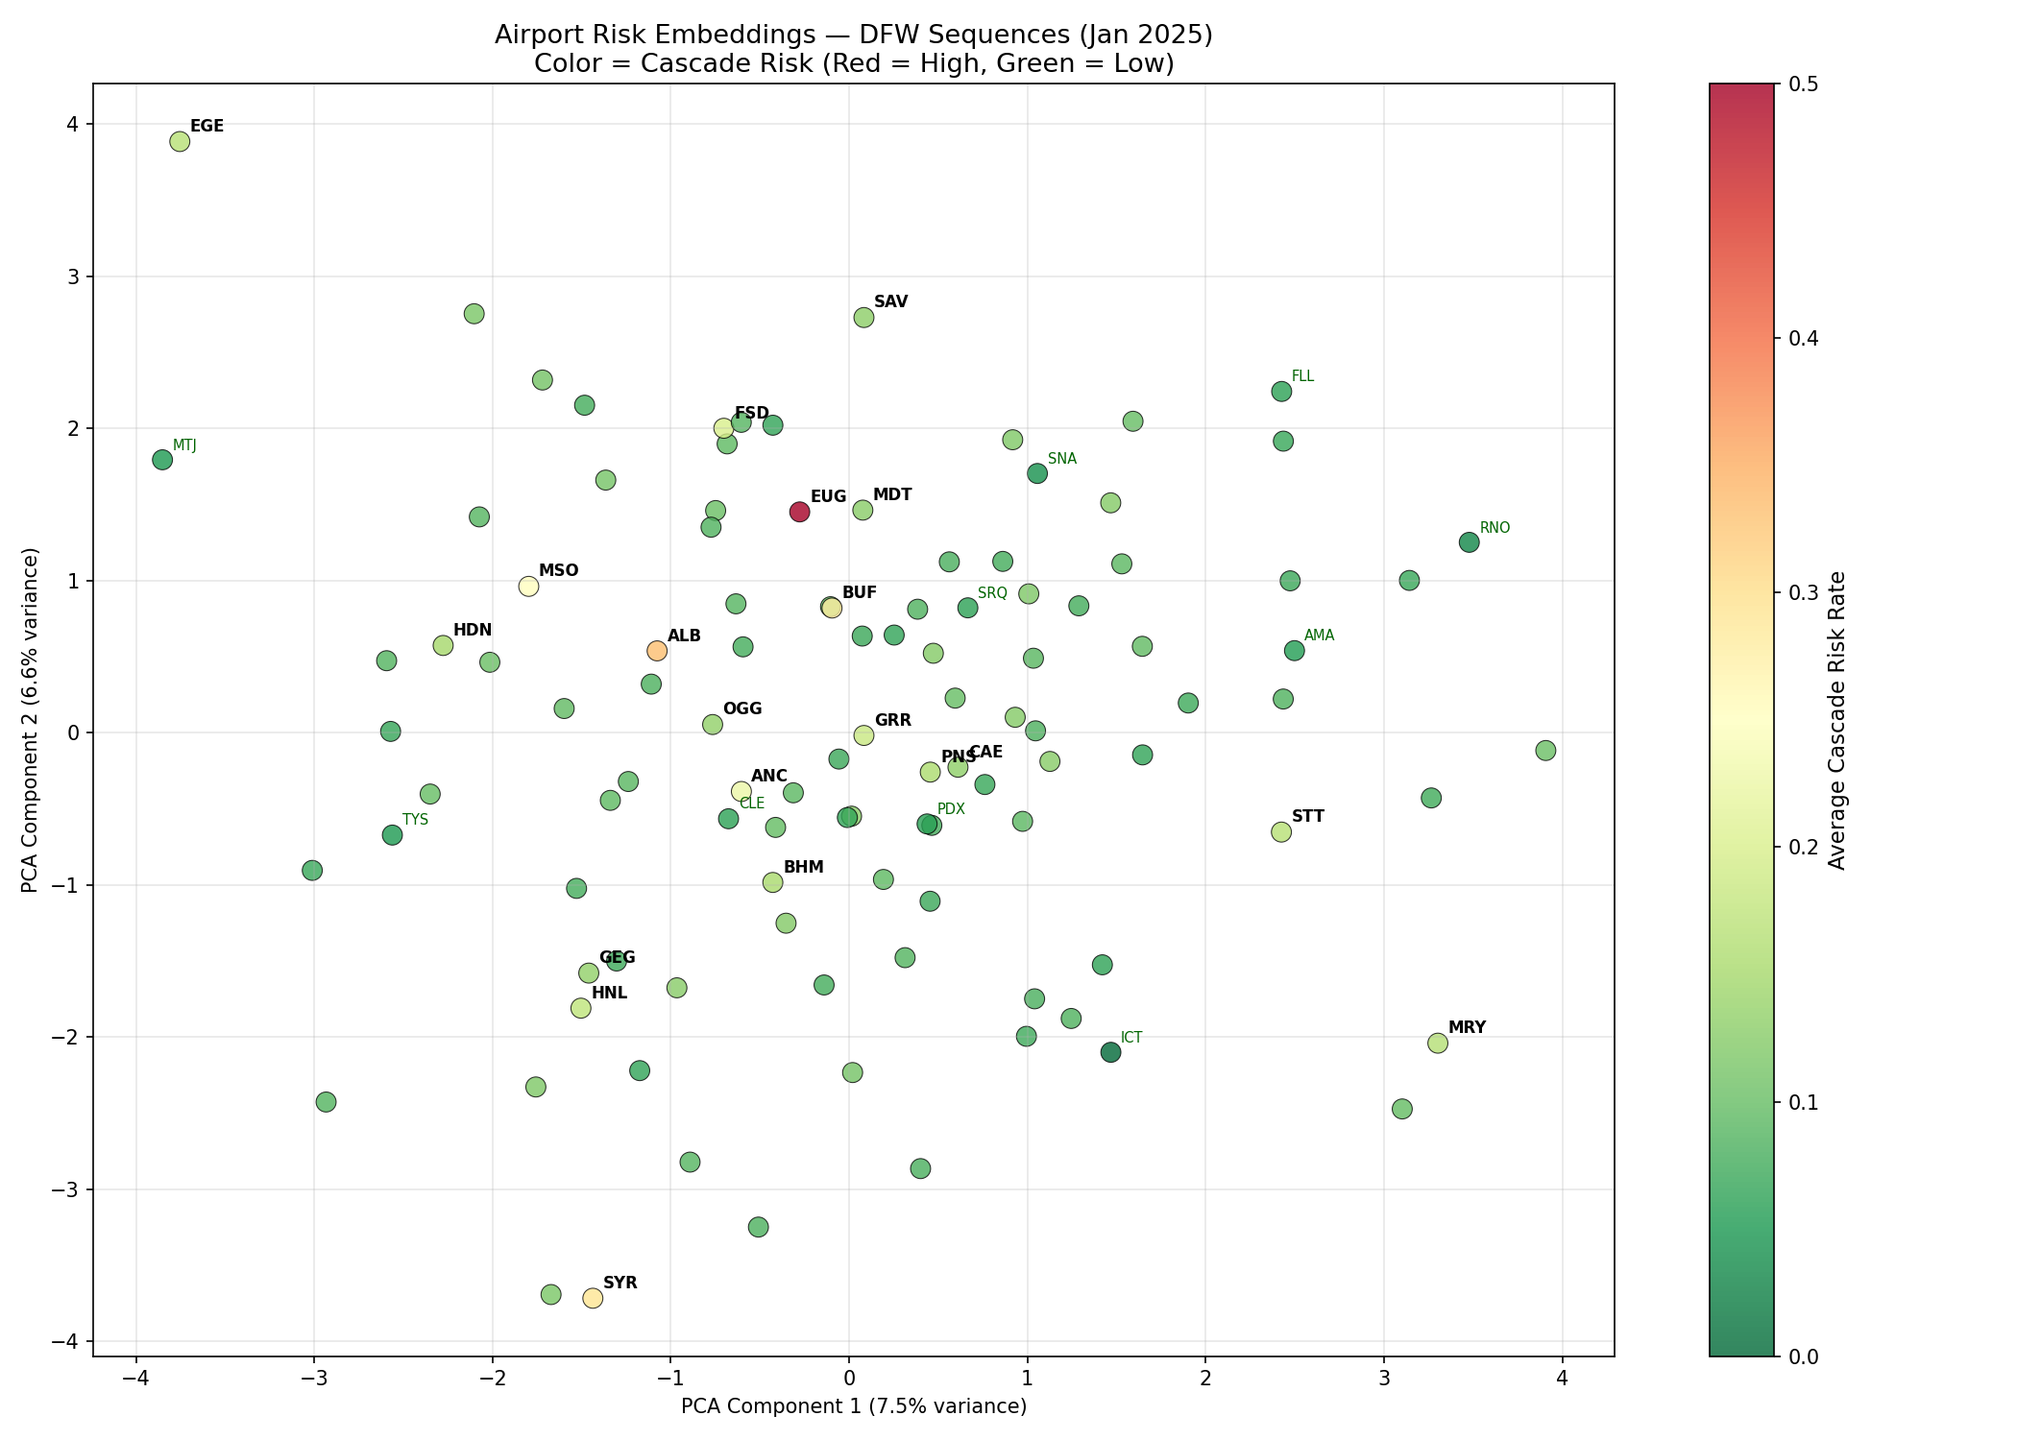
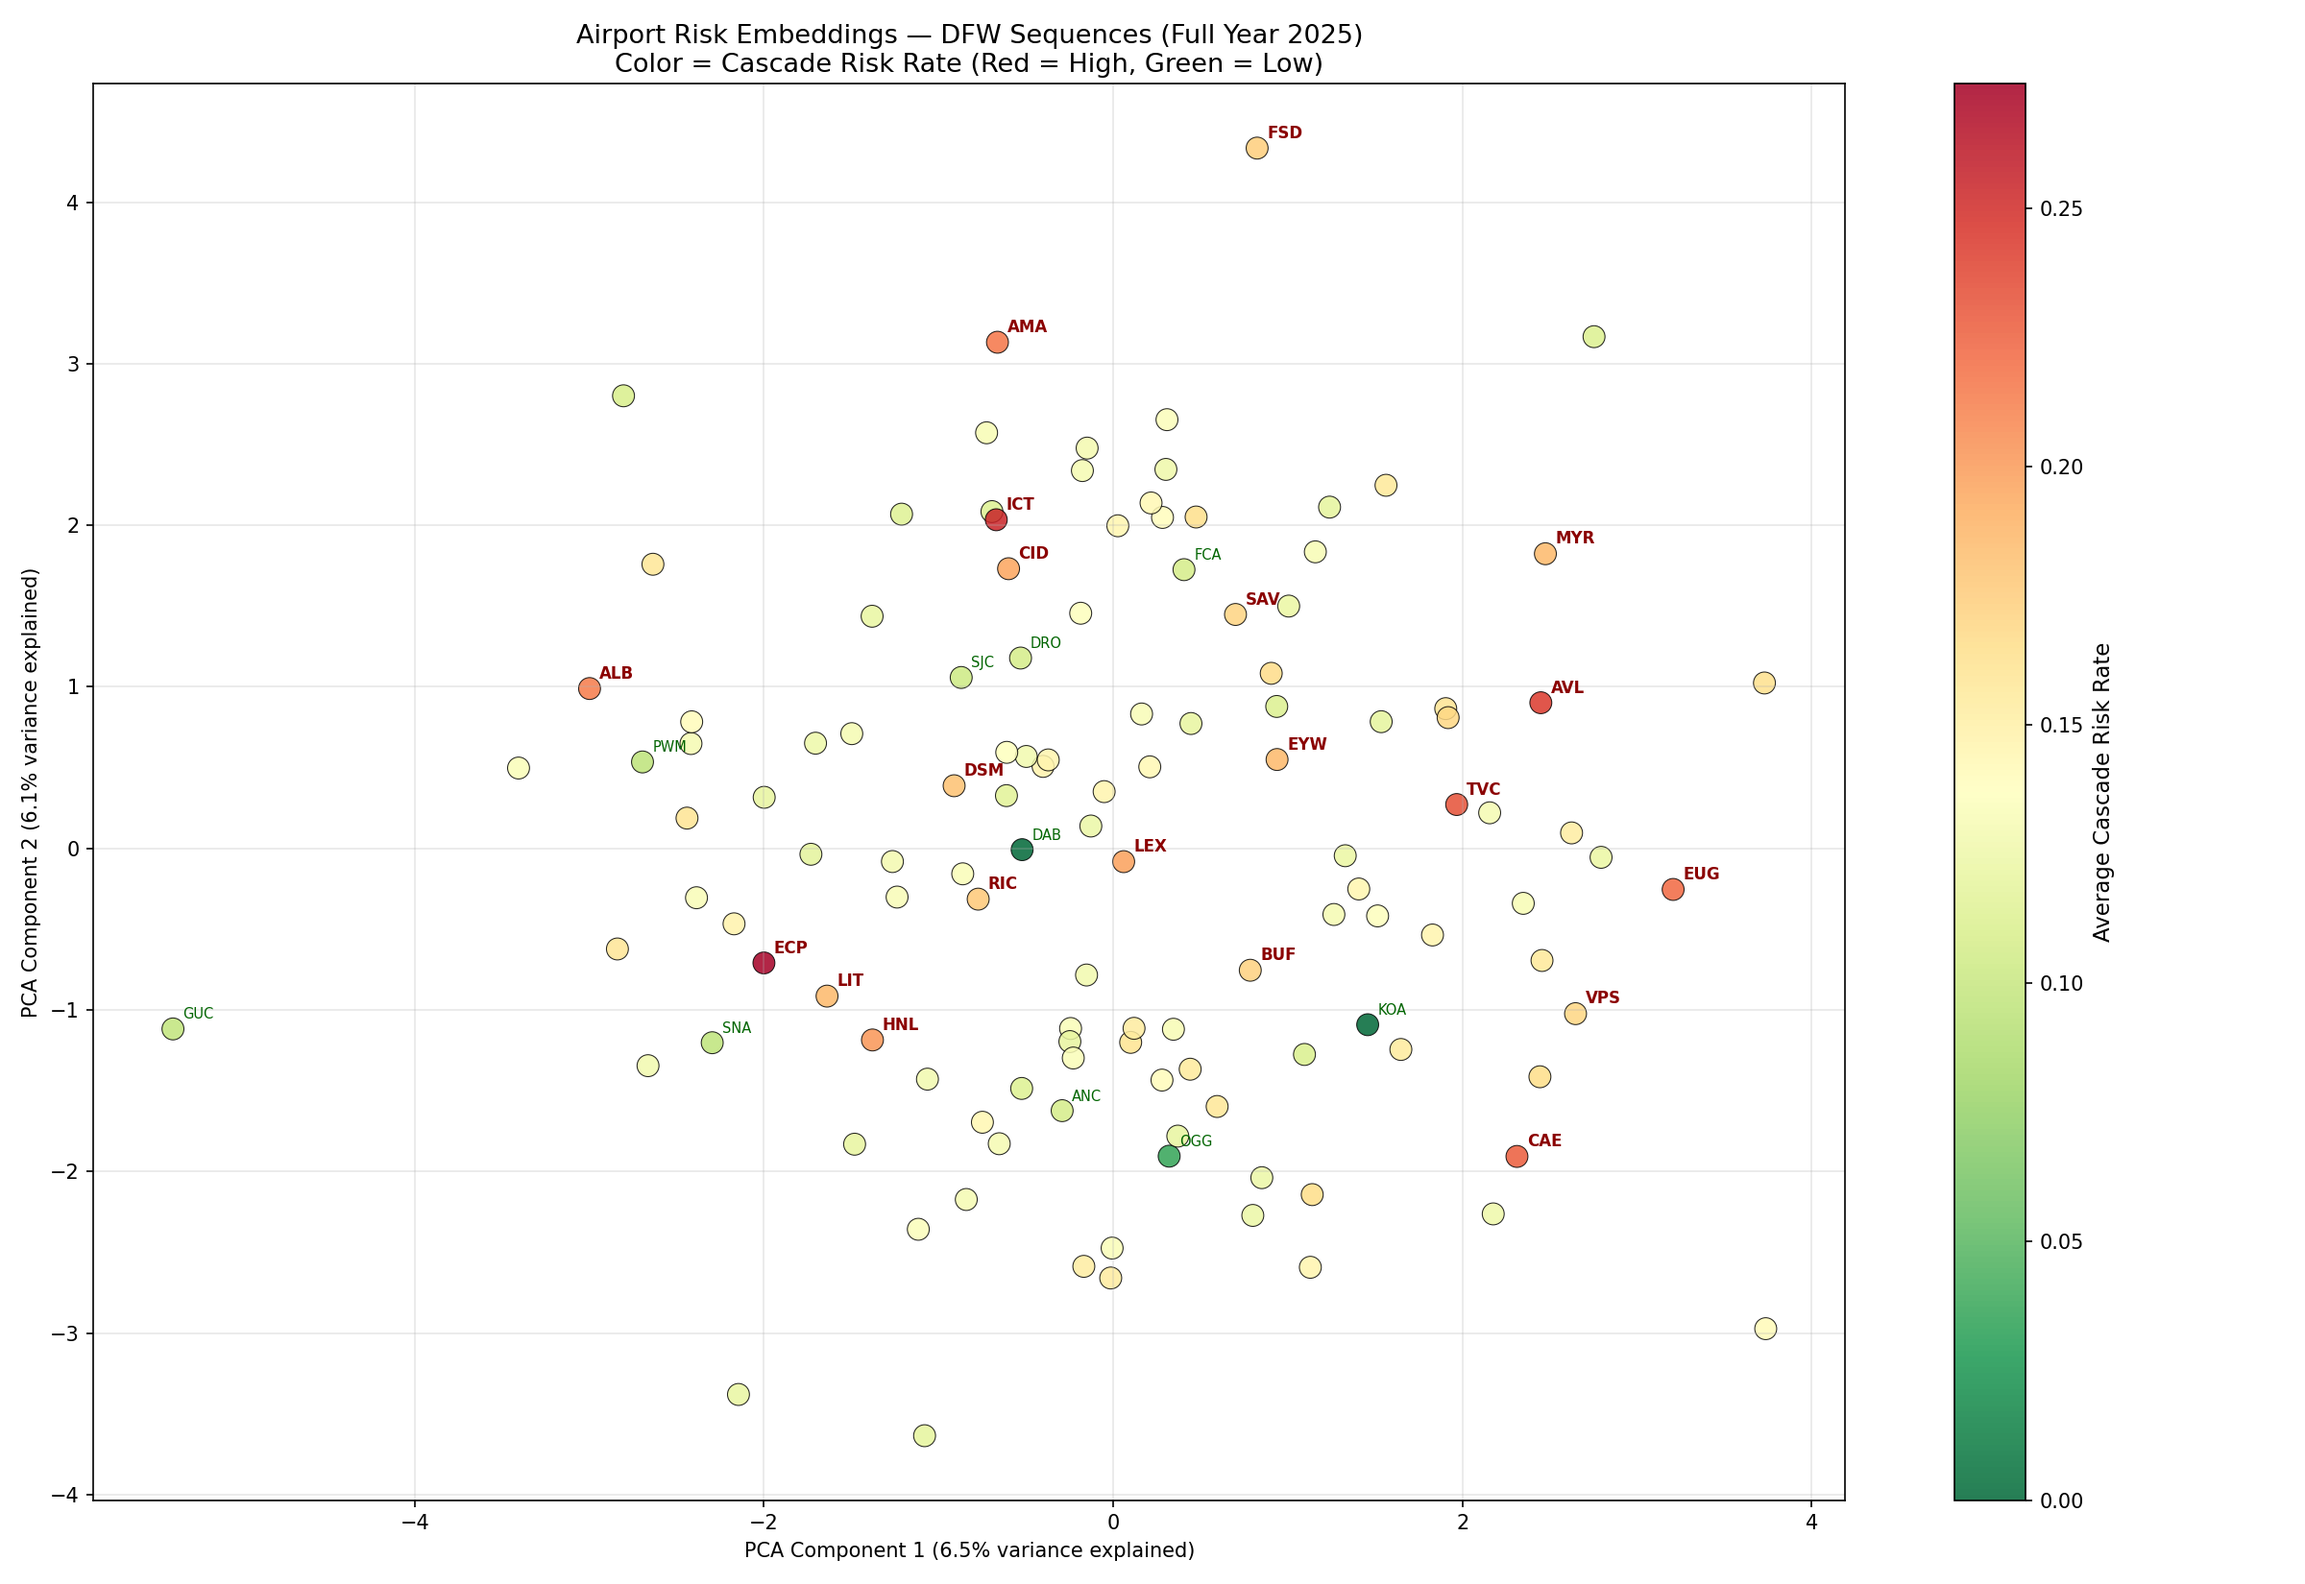
updated visualize_embeddings.py

diff --git a/visualize_embeddings.py b/visualize_embeddings.py
@@ -5,24 +5,34 @@ import torch.nn as nn
 from sklearn.preprocessing import LabelEncoder
 from sklearn.decomposition import PCA
 import matplotlib.pyplot as plt
-import matplotlib.cm as cm
 
 # ── FILE PATHS ───────────────────────────────────────────────────────────────
-DATA_FILE    = r"C:\Spring 2026\American Airlines Challenge\scripts\DFW_sequences_Jan2025.csv"
-MODEL_FILE   = r"C:\Spring 2026\American Airlines Challenge\scripts\embedding_model.pth"
-ENCODER_FILE = r"C:\Spring 2026\American Airlines Challenge\scripts\airport_label_encoder.npy"
-# ────────────────────────────────────────────────────────────────────────────
+DATA_FILE    = r"C:\Spring 2026\american-airlines-data-challenge\DFW_sequences_enriched.csv"
+MODEL_FILE   = r"C:\Spring 2026\american-airlines-data-challenge\embedding_model.pth"
+ENCODER_FILE = r"C:\Spring 2026\american-airlines-data-challenge\airport_label_encoder.npy"
+OUTPUT_FILE  = r"C:\Spring 2026\american-airlines-data-challenge\airport_embeddings.png"
+# ─────────────────────────────────────────────────────────────────────────────
 
-# ── STEP 1: Rebuild the model architecture (must match training script) ──────
+# ── STEP 1: Rebuild model architecture (must match training script) ──────────
 class AirportEmbeddingModel(nn.Module):
-    def __init__(self, num_airports, embedding_dim=32, num_extra_features=7):
+    def __init__(self, num_airports, embedding_dim=32, num_extra_features=42):
         super(AirportEmbeddingModel, self).__init__()
         self.embedding = nn.Embedding(num_airports, embedding_dim)
-        input_dim = embedding_dim * 2 + num_extra_features
+
+        input_dim = embedding_dim * 2 + num_extra_features  # 64 + 42 = 106
+
         self.network = nn.Sequential(
-            nn.Linear(input_dim, 128), nn.ReLU(), nn.Dropout(0.3),
-            nn.Linear(128, 64),        nn.ReLU(), nn.Dropout(0.3),
-            nn.Linear(64, 1),          nn.Sigmoid()
+            nn.Linear(input_dim, 256),
+            nn.ReLU(),
+            nn.Dropout(0.3),
+            nn.Linear(256, 128),
+            nn.ReLU(),
+            nn.Dropout(0.3),
+            nn.Linear(128, 64),
+            nn.ReLU(),
+            nn.Dropout(0.2),
+            nn.Linear(64, 1),
+            nn.Sigmoid()
         )
 
     def forward(self, airport_a, airport_b, features):
@@ -33,9 +43,9 @@ class AirportEmbeddingModel(nn.Module):
 
 # ── STEP 2: Load label encoder and model ────────────────────────────────────
 print("Loading model and encoder...")
-classes     = np.load(ENCODER_FILE, allow_pickle=True)
-le          = LabelEncoder()
-le.classes_ = classes
+classes      = np.load(ENCODER_FILE, allow_pickle=True)
+le           = LabelEncoder()
+le.classes_  = classes
 num_airports = len(classes)
 
 model = AirportEmbeddingModel(num_airports=num_airports)
@@ -47,20 +57,16 @@ print(f"Model loaded — {num_airports} airports")
 print("Extracting embeddings...")
 all_ids = torch.arange(num_airports, dtype=torch.long)
 with torch.no_grad():
-    embeddings = model.embedding(all_ids).numpy()  # shape: (107, 32)
+    embeddings = model.embedding(all_ids).numpy()
 print(f"Embedding matrix shape: {embeddings.shape}")
 
-# ── STEP 4: Load data to compute per-airport cascade rate ────────────────────
+# ── STEP 4: Compute per-airport cascade risk from enriched sequences ─────────
 print("Computing airport risk scores...")
 df = pd.read_csv(DATA_FILE, low_memory=False)
 
-# Cascade rate as Airport A (inbound)
 risk_A = df.groupby("airport_A")["CASCADING_DELAY"].mean().rename("risk_as_A")
-
-# Cascade rate as Airport B (outbound)
 risk_B = df.groupby("airport_B")["CASCADING_DELAY"].mean().rename("risk_as_B")
 
-# Combined average risk
 risk = pd.concat([risk_A, risk_B], axis=1).fillna(0)
 risk["avg_risk"] = (risk["risk_as_A"] + risk["risk_as_B"]) / 2
 
@@ -72,29 +78,31 @@ print(f"Variance explained: PC1={pca.explained_variance_ratio_[0]:.2%}, PC2={pca
 
 # ── STEP 6: Build plot dataframe ─────────────────────────────────────────────
 plot_df = pd.DataFrame({
-    "airport":  classes,
-    "x":        embeddings_2d[:, 0],
-    "y":        embeddings_2d[:, 1],
+    "airport": classes,
+    "x":       embeddings_2d[:, 0],
+    "y":       embeddings_2d[:, 1],
 })
-plot_df = plot_df.merge(risk[["avg_risk"]], left_on="airport", right_index=True, how="left")
+plot_df = plot_df.merge(
+    risk[["avg_risk"]], left_on="airport", right_index=True, how="left"
+)
 plot_df["avg_risk"] = plot_df["avg_risk"].fillna(0)
 
 # ── STEP 7: Plot ─────────────────────────────────────────────────────────────
 print("Plotting...")
-fig, ax = plt.subplots(figsize=(14, 10))
+fig, ax = plt.subplots(figsize=(16, 11))
 
 scatter = ax.scatter(
     plot_df["x"],
     plot_df["y"],
     c=plot_df["avg_risk"],
-    cmap="RdYlGn_r",       # red = high risk, green = low risk
-    s=100,
-    alpha=0.8,
+    cmap="RdYlGn_r",
+    s=120,
+    alpha=0.85,
     edgecolors="black",
     linewidths=0.5
 )
 
-# Add airport labels for the top 20 riskiest airports
+# Label top 20 riskiest airports in bold red
 top_risk = plot_df.nlargest(20, "avg_risk")
 for _, row in top_risk.iterrows():
     ax.annotate(
@@ -102,11 +110,12 @@ for _, row in top_risk.iterrows():
         (row["x"], row["y"]),
         fontsize=8,
         fontweight="bold",
+        color="darkred",
         xytext=(5, 5),
         textcoords="offset points"
     )
 
-# Add labels for a few low-risk airports too
+# Label bottom 10 safest airports in green
 low_risk = plot_df.nsmallest(10, "avg_risk")
 for _, row in low_risk.iterrows():
     ax.annotate(
@@ -121,15 +130,25 @@ for _, row in low_risk.iterrows():
 cbar = plt.colorbar(scatter, ax=ax)
 cbar.set_label("Average Cascade Risk Rate", fontsize=11)
 
-ax.set_title("Airport Risk Embeddings — DFW Sequences (Jan 2025)\nColor = Cascade Risk (Red = High, Green = Low)", fontsize=13)
-ax.set_xlabel(f"PCA Component 1 ({pca.explained_variance_ratio_[0]:.1%} variance)", fontsize=10)
-ax.set_ylabel(f"PCA Component 2 ({pca.explained_variance_ratio_[1]:.1%} variance)", fontsize=10)
+ax.set_title(
+    "Airport Risk Embeddings — DFW Sequences (Full Year 2025)\n"
+    "Color = Cascade Risk Rate (Red = High, Green = Low)",
+    fontsize=13
+)
+ax.set_xlabel(
+    f"PCA Component 1 ({pca.explained_variance_ratio_[0]:.1%} variance explained)",
+    fontsize=10
+)
+ax.set_ylabel(
+    f"PCA Component 2 ({pca.explained_variance_ratio_[1]:.1%} variance explained)",
+    fontsize=10
+)
 ax.grid(True, alpha=0.3)
 
 plt.tight_layout()
-plt.savefig("airport_embeddings.png", dpi=150)
+plt.savefig(OUTPUT_FILE, dpi=150)
 plt.show()
-print("\nPlot saved to airport_embeddings.png")
+print(f"\nPlot saved to {OUTPUT_FILE}")
 
 # ── STEP 8: Print top 10 riskiest airport pairs ──────────────────────────────
 print("\nTop 10 Riskiest Airport Pairs (A → DFW → B):")
@@ -137,6 +156,13 @@ pair_risk = df.groupby(["airport_A", "airport_B"])["CASCADING_DELAY"].agg(
     ["mean", "count"]
 ).reset_index()
 pair_risk.columns = ["airport_A", "airport_B", "cascade_rate", "num_sequences"]
-pair_risk = pair_risk[pair_risk["num_sequences"] >= 10]  # filter low sample pairs
+pair_risk = pair_risk[pair_risk["num_sequences"] >= 10]
 pair_risk = pair_risk.sort_values("cascade_rate", ascending=False)
 print(pair_risk.head(10).to_string(index=False))
+
+# ── STEP 9: Print summary statistics ────────────────────────────────────────
+print("\nTop 10 Highest Risk Airports (by average cascade rate):")
+print(plot_df.nlargest(10, "avg_risk")[["airport", "avg_risk"]].to_string(index=False))
+
+print("\nTop 10 Lowest Risk Airports (by average cascade rate):")
+print(plot_df.nsmallest(10, "avg_risk")[["airport", "avg_risk"]].to_string(index=False))
